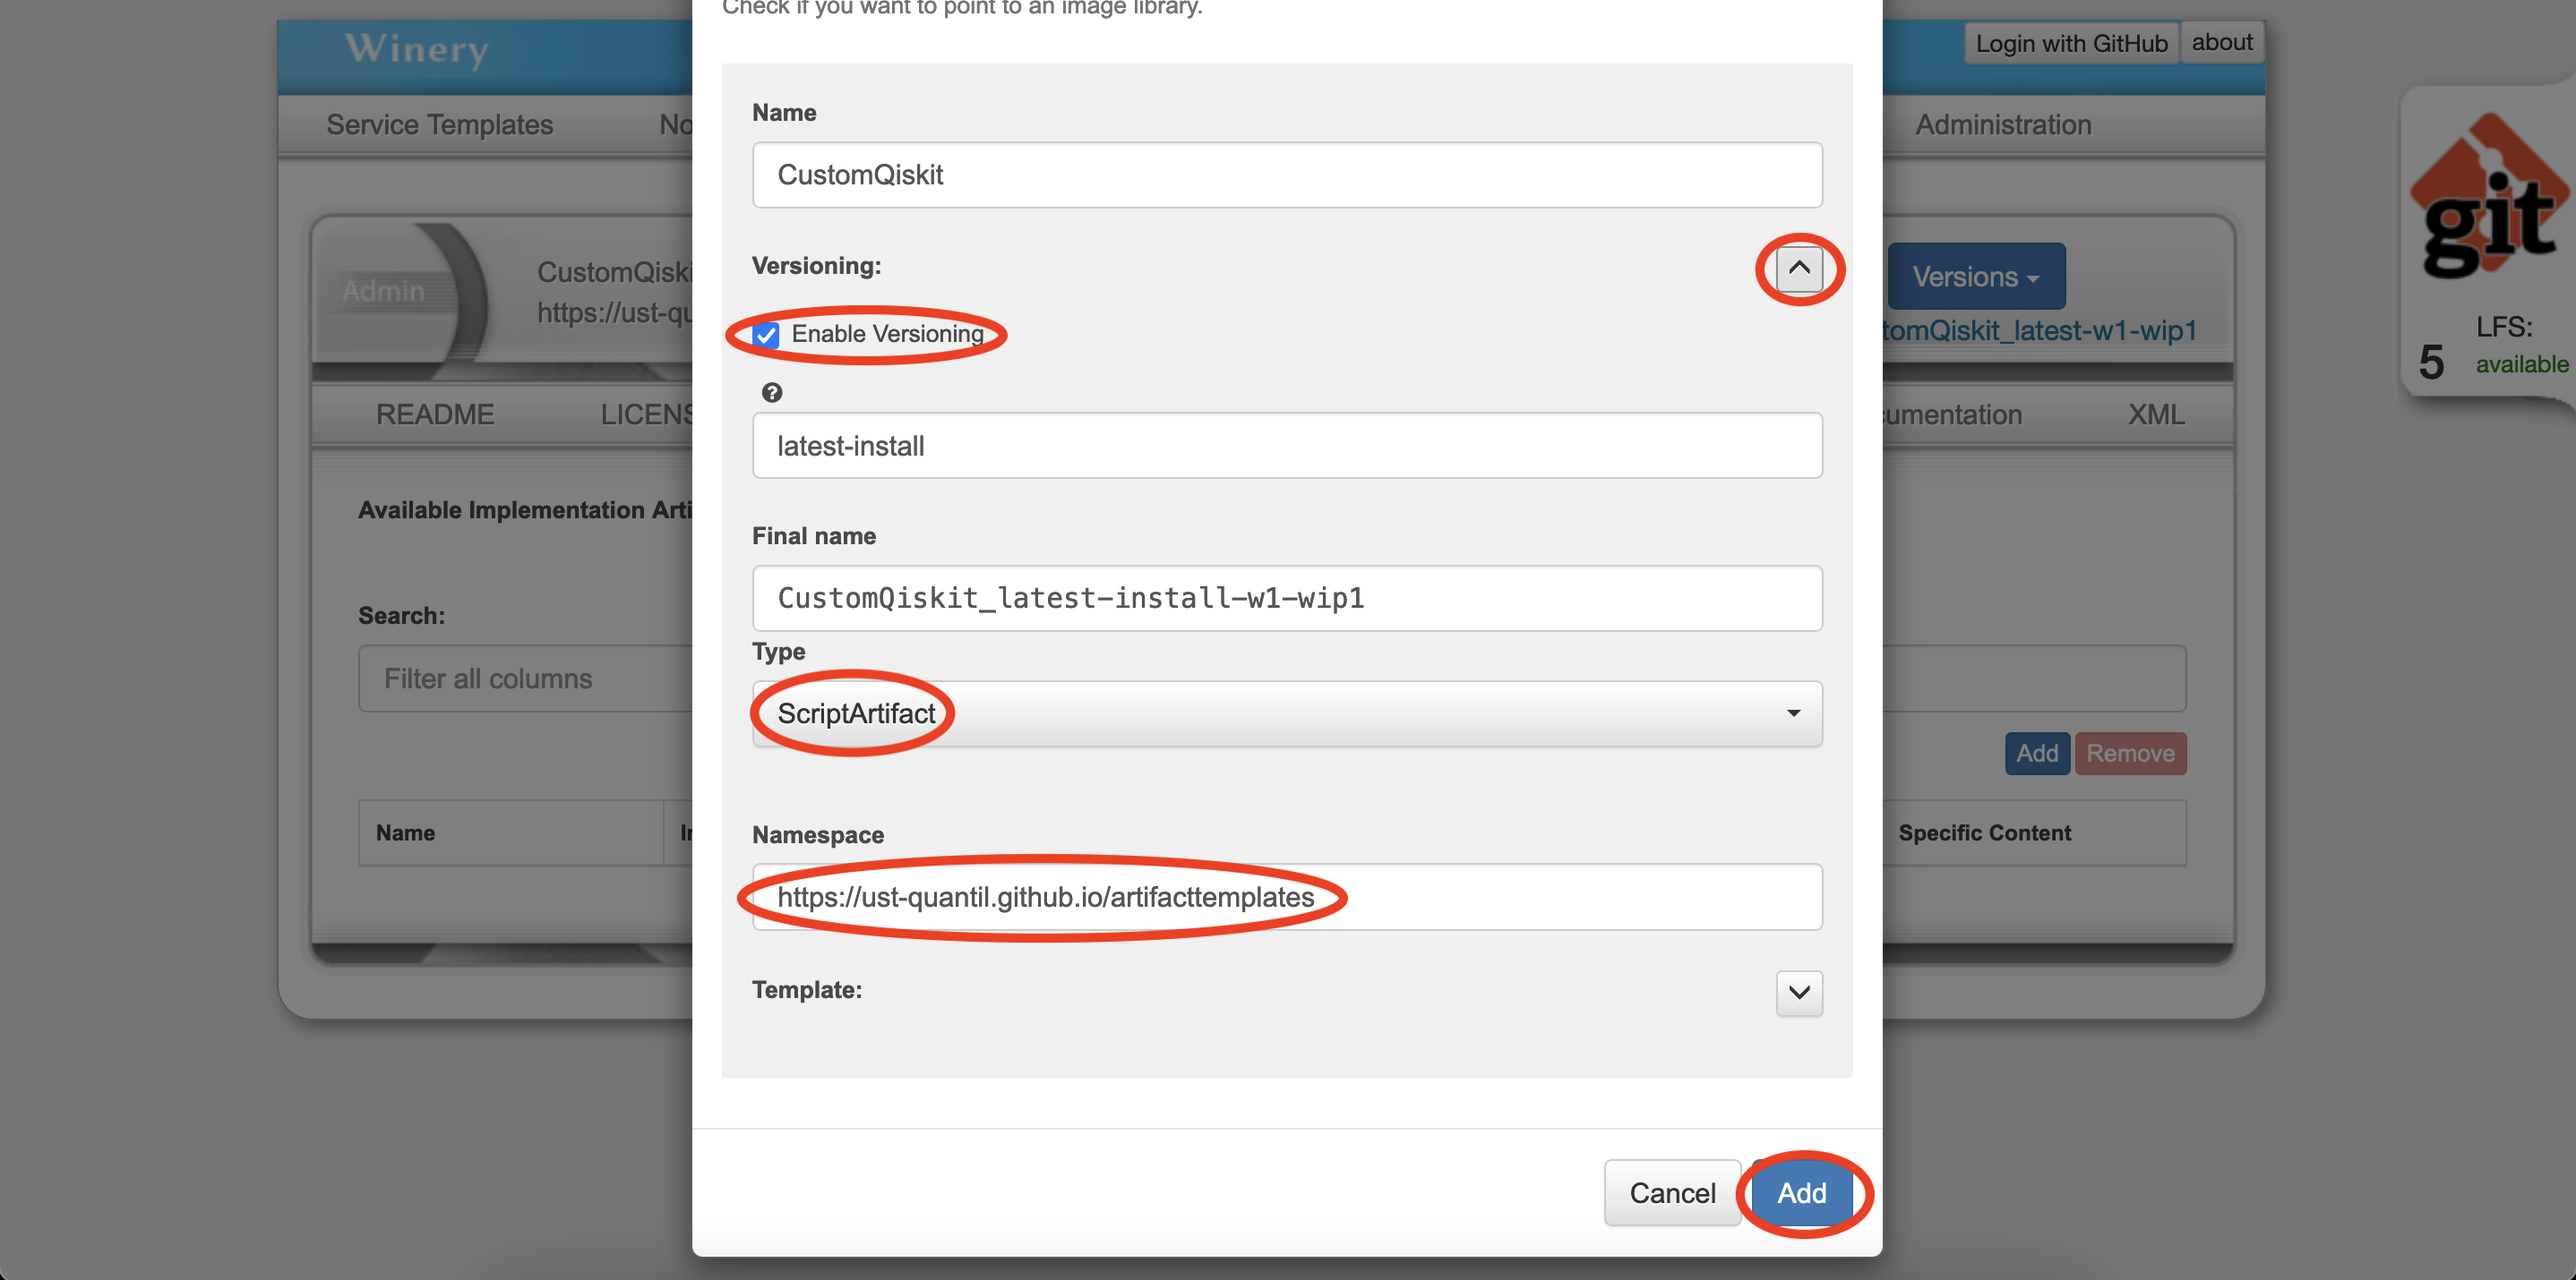
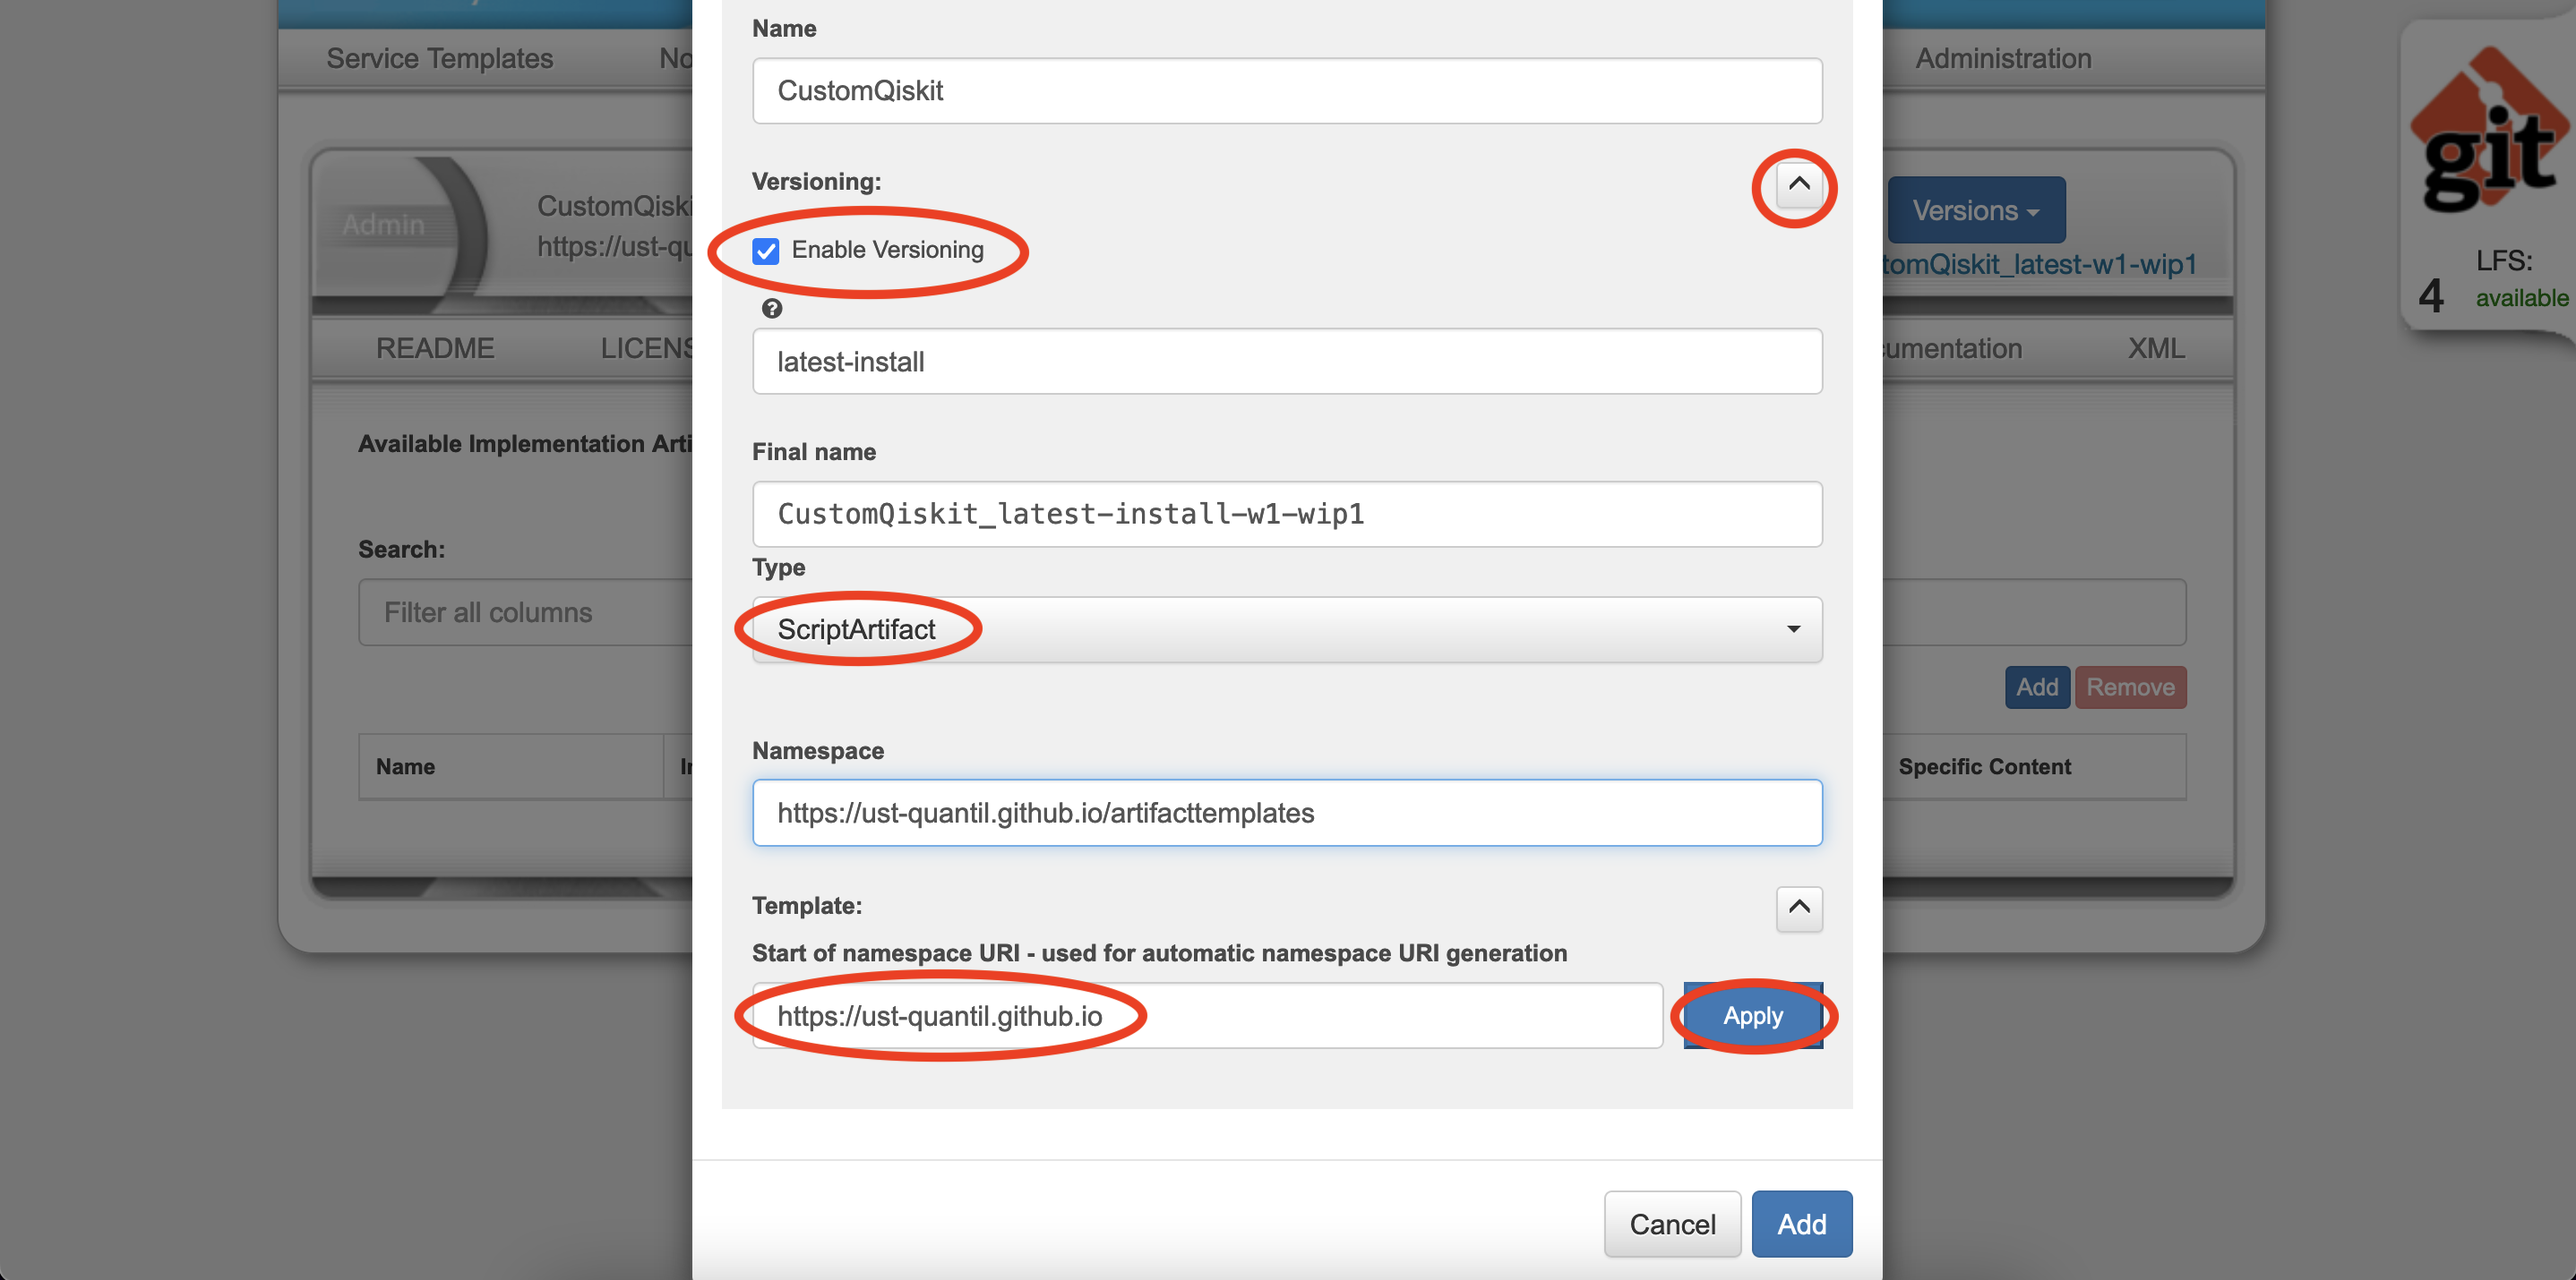
add namespace templates

diff --git a/docs/tutorial-node-implementation.md b/docs/tutorial-node-implementation.md
@@ -97,16 +97,21 @@ Click on the `Add new` button on the right.
 
 Enter the following values into the dialog and click on `Add`:
 
-| Field      | Value                                     | Explanation               |
-|:-----------|:------------------------------------------|:--------------------------|
-| Name       | CustomQiskit                              |                           |
-| Versioning | Enabled                                   | (optional)                |
-| Version    | latest                                    | (optional)                |
-| Namespace  | `https://ust-quantil.github.io/nodetypes` | can be chosen arbitrarily |
+| Field        | Value                           | Explanation                |
+|:-------------|:--------------------------------|:---------------------------|
+| Name         | CustomQiskit                    |                            |
+| Versioning   | Enabled                         | (optional)                 |
+| Version      | latest                          | (optional)                 |
+| Namespace    |                                 | is generated automatically |
+| Template URI | `https://ust-quantil.github.io` |                            |
 
 ![New node type dialog](./images/new_node_type/new_dialog.png)
 
-<!-- TODO: explain namespaces and template -->
+<!-- TODO: explain namespaces -->
+
+**Namespace Templates:**
+In this example we don't set the namespace manually but use the template option to specify only the start of the namespace URI.
+When you click on `Apply` the namespace is automatically generated.
 
 Optionally you can create a README with markdown support, choose a license and customize the appearance.
 
@@ -215,10 +220,11 @@ Open the `implementations` tab and click on `Add` to create a new implementation
 
 ![Implementations](./images/new_node_type/implementations/implementations.png)
 
-| Field             | Value                                                   | Required                       |
-|:------------------|:--------------------------------------------------------|:-------------------------------|
-| Enable Versioning | True                                                    | NO                             |
-| Namespace         | `https://ust-quantil.github.io/nodetypeimplementations` | YES, will be set automatically |
+| Field             | Value                           | Required                   |
+|:------------------|:--------------------------------|:---------------------------|
+| Enable Versioning | True                            | No                         |
+| Namespace         |                                 | is generated automatically |
+| Template URI      | `https://ust-quantil.github.io` | Yes                        |
 
 Use the default values for the rest of the fields.
 
@@ -246,15 +252,16 @@ Add the `install` artifact.
 
 Enter the following values:
 
-| Field                      | Value                                           | Required |
-|:---------------------------|:------------------------------------------------|:---------|
-| Name                       | Qiskit_Install                                  | Yes      |
-| Interface Name             | http://opentosca.org/interfaces/lifecycle       | Yes      |
-| Operation Name             | install                                         | Yes      |
-| Artifact Template Creation | Create Artifact Template                        | Yes      |
-| Enable Versioning          | True                                            | No       |
-| Type                       | ScriptArtifact                                  | Yes      |
-| Namespace                  | https://ust-quantil.github.io/artifacttemplates | Yes      |
+| Field                      | Value                                       | Required                   |
+|:---------------------------|:--------------------------------------------|:---------------------------|
+| Name                       | Qiskit_Install                              | Yes                        |
+| Interface Name             | `http://opentosca.org/interfaces/lifecycle` | Yes                        |
+| Operation Name             | install                                     | Yes                        |
+| Artifact Template Creation | Create Artifact Template                    | Yes                        |
+| Enable Versioning          | True                                        | No                         |
+| Type                       | ScriptArtifact                              | Yes                        |
+| Namespace                  |                                             | is generated automatically |
+| Template URI               | `https://ust-quantil.github.io`             | Yes                        |
 
 ![Install artifact](./images/new_node_type/implementations/implementation_artifacts/install_1.png)
 
@@ -285,15 +292,16 @@ The version can be specified with the input parameter `qiskitVersion` of the ins
 Add the `connectTo` artifact.
 Enter the following values:
 
-| Field                      | Value                                           | Required |
-|:---------------------------|:------------------------------------------------|:---------|
-| Name                       | Qiskit_ConnectTo                                | Yes      |
-| Interface Name             | http://opentosca.org/interfaces/connectTo/ibmq  | Yes      |
-| Operation Name             | connectTo                                       | Yes      |
-| Artifact Template Creation | Create Artifact Template                        | Yes      |
-| Enable Versioning          | True                                            | No       |
-| Type                       | ScriptArtifact                                  | Yes      |
-| Namespace                  | https://ust-quantil.github.io/artifacttemplates | Yes      |
+| Field                      | Value                                            | Required                   |
+|:---------------------------|:-------------------------------------------------|:---------------------------|
+| Name                       | Qiskit_ConnectTo                                 | Yes                        |
+| Interface Name             | `http://opentosca.org/interfaces/connectTo/ibmq` | Yes                        |
+| Operation Name             | connectTo                                        | Yes                        |
+| Artifact Template Creation | Create Artifact Template                         | Yes                        |
+| Enable Versioning          | True                                             | No                         |
+| Type                       | ScriptArtifact                                   | Yes                        |
+| Namespace                  |                                                  | is automatically generated |
+| Template URI               | `https://ust-quantil.github.io`                  | Yes                        |
 
 ![Connect-to artifact](./images/new_node_type/implementations/implementation_artifacts/connect_to_1.png)
 ![Connect-to artifact](./images/new_node_type/implementations/implementation_artifacts/connect_to_2.png)
